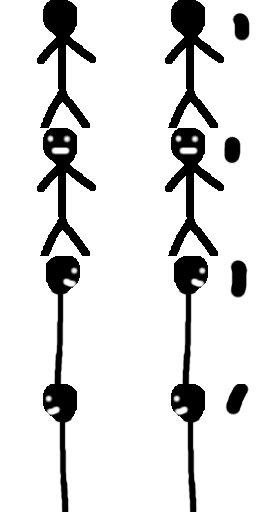
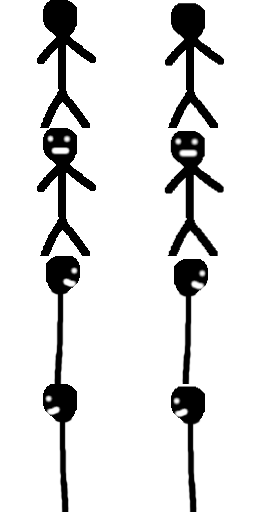
Fixing player animation

diff --git a/src/Animation.cpp b/src/Animation.cpp
@@ -4,7 +4,7 @@ Animation::Animation() {
 
 }
 
-Animation::Animation(const Animation &other) : texture(other.texture), sprite(other.sprite), frameSize(other.frameSize), period(other.period) {
+Animation::Animation(const Animation &other) : texture(other.texture), sprite(other.sprite), frameY(other.frameY), frameSize(other.frameSize), period(other.period) {
 
 }
 
@@ -15,7 +15,7 @@ void Animation::draw(sf::RenderTarget &target, sf::RenderStates states)const {
                                           frameSize.x, frameSize.y));
         clock.restart();
     }
-    target.draw(sprite);
+    target.draw(sprite, states);
 }
 
 void Animation::loadFromFile(std::string path, sf::Vector2i frameSize) {

diff --git a/src/Player.cpp b/src/Player.cpp
@@ -12,6 +12,7 @@ void Player::load(std::string path) {
 
     sprite.loadFromFile(readIniString(path + "config.ini", "Player", "src", "data/characters/player.png"), sf::Vector2i(PIXELS_PER_UNIT, PIXELS_PER_UNIT));
     setSide(side);
+    sprite.setPeriod(sf::milliseconds(500));
 }
 
 void Player::move(Side side) {

diff --git a/include/Animation.hpp b/include/Animation.hpp
@@ -29,8 +29,8 @@ private:
     sf::Texture texture;
     mutable sf::Sprite sprite;
 
-    sf::Vector2i frameSize;
     int frameY = 0;
+    sf::Vector2i frameSize;
 
     mutable sf::Clock clock;
     mutable sf::Time period = sf::milliseconds(1000);
